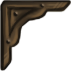
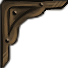
anim

Changed region(s): [[0.0, 0.0, 1.0, 1.0], [0.0882, 0.0588, 0.5294, 0.2941], [0.2059, 0.2941, 0.2353, 0.3235]]

diff --git a/app/css/all.css b/app/css/all.css
@@ -72,7 +72,7 @@ textarea { overflow: auto; resize: vertical; }
 
 fieldset { min-width: 0; padding: 0; margin: 0; border: 0; }
 
-:root { --border_img_h: url(../images/panel/h_border.png); --border_img_v: url(../images/panel/v_border.png); --size_border: 17px; --size_corner: 71px; --corner_img: url(../images/panel/corner.png); --width_decor:82px; --height_decor:43px; }
+:root { --border_img_h: url(../images/panel/h_border.png); --border_img_v: url(../images/panel/v_border.png); --size_border: 17px; --size_corner: 68px; --corner_img: url(../images/panel/corner.png); --width_decor:82px; --height_decor:43px; --animation_static: all 0.15s ease; --animation_hovered:all 0.3s ease; --unit:2; }
 
 body { font-family: "Vollkorn", sans-serif; font: 16px/1.5; line-height: 1.5; background: #180f0a; color: #b8afaa; }
 
@@ -106,19 +106,23 @@ body { font-family: "Vollkorn", sans-serif; font: 16px/1.5; line-height: 1.5; ba
 
 .panel_content { -webkit-box-flex: 1; -ms-flex: 1 1 auto; flex: 1 1 auto; overflow: auto; height: 100%; background: rgba(0, 128, 0, 0.2); }
 
-.circle { --height:111px; --width:110px; --width_circle:calc(var(--width) / 2); --height_circle:calc(var(--height) / 2); display: inline-block; width: var(--width_circle); height: var(--height_circle); background: url(../images/circles/circle.png) no-repeat 0 0; -webkit-background-size: cover; background-size: cover; position: relative; }
+.circle { --size:110px; --width_circle:calc(var(--size) / 2); --height_circle:calc(var(--size) / 2); display: inline-block; width: var(--width_circle); height: var(--height_circle); background: url(../images/circles/circle.png) no-repeat 0 0; -webkit-background-size: cover; background-size: cover; position: relative; }
 
 .circle img { position: absolute; top: 50%; left: 50%; -webkit-transform: translate(-50%, -50%); -ms-transform: translate(-50%, -50%); transform: translate(-50%, -50%); max-width: 80%; max-height: 80%; }
 
-.circle.md { --width_circle:calc(var(--width) / 2* 0.75); --height_circle:calc(var(--height) / 2 * 0.75); }
+.circle.md { --width_circle:calc(var(--size) / 2* 0.75); --height_circle:calc(var(--size) / 2 * 0.75); }
 
-.circle.sm { --width_circle:calc(var(--width) / 2* 0.5); --height_circle:calc(var(--height) / 2 * 0.5); }
+.circle.sm { --width_circle:calc(var(--size) / 2* 0.5); --height_circle:calc(var(--size) / 2 * 0.5); }
 
-a.circle { -webkit-transition: all 0.15s ease; -o-transition: all 0.15s ease; transition: all 0.15s ease; }
+.circle.emblem { background: none; padding: 1px; }
 
-a.circle:hover { -webkit-transition: all 0.3s ease; -o-transition: all 0.3s ease; transition: all 0.3s ease; -webkit-filter: saturate(2); filter: saturate(2); }
+.circle.emblem img { position: static; -webkit-transform: none; -ms-transform: none; transform: none; max-width: none; max-height: none; display: block; height: auto; max-width: 100%; -webkit-border-radius: 50%; border-radius: 50%; }
 
-.rectangle { --size_corner_local:calc(var(--size_corner) / 2.7); position: relative; width: 67px; height: 95px; }
+.circle.emblem:after { content: ""; width: 100%; height: 100%; position: absolute; top: 0; left: 0; background: url(../images/circles/circle_empty_shadow.png) no-repeat 0 0; -webkit-background-size: cover; background-size: cover; }
+
+.circle.emblem.no_shadow:after { background: url(../images/circles/circle_empty.png) no-repeat 0 0; -webkit-background-size: cover; background-size: cover; }
+
+.rectangle { --size_corner_local:calc(var(--size_corner) / 2.7); position: relative; width: 67px; height: 95px; display: block; }
 
 .rectangle .rectangle_mask { width: 100%; height: 100%; position: relative; }
 
@@ -131,10 +135,6 @@ a.circle:hover { -webkit-transition: all 0.3s ease; -o-transition: all 0.3s ease
 .rectangle:after { left: auto; top: auto; bottom: -2px; right: -1px; -webkit-transform: scale(-1, -1); -ms-transform: scale(-1, -1); transform: scale(-1, -1); }
 
 .rectangle img { z-index: 3; position: absolute; top: 50%; left: 50%; -webkit-transform: translate(-50%, -50%); -ms-transform: translate(-50%, -50%); transform: translate(-50%, -50%); max-width: 100%; max-height: 100%; }
-
-a.rectangle img { -webkit-transition: all 0.15s ease; -o-transition: all 0.15s ease; transition: all 0.15s ease; }
-
-a.rectangle:hover img { -webkit-transition: all 0.3s ease; -o-transition: all 0.3s ease; transition: all 0.3s ease; -webkit-filter: saturate(2); filter: saturate(2); }
 
 .justify-content-center { -webkit-box-pack: center; -ms-flex-pack: center; justify-content: center; }
 
@@ -156,12 +156,24 @@ a.rectangle:hover img { -webkit-transition: all 0.3s ease; -o-transition: all 0.
 
 .row { display: -webkit-box; display: -ms-flexbox; display: flex; -ms-flex-wrap: wrap; flex-wrap: wrap; margin-left: -15px; margin-right: -15px; }
 
+.btn { -webkit-transition: var(--animation_static); -o-transition: var(--animation_static); transition: var(--animation_static); }
+
+.btn:hover { -webkit-transition: var(--animation_hovered); -o-transition: var(--animation_hovered); transition: var(--animation_hovered); -webkit-filter: saturate(var(--unit)); filter: saturate(var(--unit)); }
+
+a.rectangle img { -webkit-transition: var(--animation_static); -o-transition: var(--animation_static); transition: var(--animation_static); }
+
+a.rectangle:hover img { -webkit-transition: var(--animation_hovered); -o-transition: var(--animation_hovered); transition: var(--animation_hovered); -webkit-filter: saturate(var(--unit)); filter: saturate(var(--unit)); }
+
+a.circle { -webkit-transition: var(--animation_static); -o-transition: var(--animation_static); transition: var(--animation_static); }
+
+a.circle:hover { -webkit-transition: var(--animation_hovered); -o-transition: var(--animation_hovered); transition: var(--animation_hovered); -webkit-filter: saturate(var(--unit)); filter: saturate(var(--unit)); }
+
 /* vollkorn-regular - latin_cyrillic */
 @font-face { font-family: 'Vollkorn'; src: url("../fonts/vollkorn-v17-latin_cyrillic-regular.eot"); /* IE9 Compat Modes */ src: local(""), url("../fonts/vollkorn-v17-latin_cyrillic-regular.eot?#iefix") format("embedded-opentype"), url("../fonts/vollkorn-v17-latin_cyrillic-regular.woff2") format("woff2"), url("../fonts/vollkorn-v17-latin_cyrillic-regular.woff") format("woff"), url("../fonts/vollkorn-v17-latin_cyrillic-regular.ttf") format("truetype"), url("../fonts/vollkorn-v17-latin_cyrillic-regular.svg#Vollkorn") format("svg"); /* Legacy iOS */ font-style: normal; font-weight: 400; font-display: swap; }
 
 .btn:not(:disabled):not(.disabled) { cursor: pointer; }
 
-.btn { --px:20px; --py:17px; --size_corner_local:calc(var(--size_corner) / 2.7); --paddings_local:var(--py)  var(--px); --font_size_local:16px; text-align: center; vertical-align: middle; -webkit-user-select: none; -moz-user-select: none; -ms-user-select: none; user-select: none; -webkit-transition: all 0.15s ease; -o-transition: all 0.15s ease; transition: all 0.15s ease; display: inline-block; background: #180f0a; -webkit-border-radius: 6px; border-radius: 6px; overflow: hidden; border: 0; color: #b8afaa; position: relative; font-size: var(--font_size_local); }
+.btn { --px:20px; --py:17px; --size_corner_local:calc(var(--size_corner) / 2.7); --paddings_local:var(--py)  var(--px); --font_size_local:16px; text-align: center; vertical-align: middle; -webkit-user-select: none; -moz-user-select: none; -ms-user-select: none; user-select: none; display: inline-block; background: #180f0a; -webkit-border-radius: 6px; border-radius: 6px; overflow: hidden; border: 0; color: #b8afaa; position: relative; font-size: var(--font_size_local); }
 
 .btn.md { --size_corner_local:calc(var(--size_corner) / 2.7 * 0.75); --font_size_local:calc(16px * 0.75); --paddings_local: calc(var(--py) * 0.75) calc(var(--px) * 0.75); }
 
@@ -179,6 +191,6 @@ a.rectangle:hover img { -webkit-transition: all 0.3s ease; -o-transition: all 0.
 
 .btn:after { left: auto; right: 0; -webkit-transform: scale(-1, 1); -ms-transform: scale(-1, 1); transform: scale(-1, 1); }
 
-.btn:hover { color: #b8afaa; color: #fff; text-decoration: none; -webkit-transition: all 0.3s ease; -o-transition: all 0.3s ease; transition: all 0.3s ease; -webkit-filter: saturate(2); filter: saturate(2); }
+.btn:hover { color: #b8afaa; color: #fff; text-decoration: none; }
 
 /*# sourceMappingURL=all.css.map */

diff --git a/app/ui.html b/app/ui.html
@@ -5,6 +5,9 @@
 		<meta name="viewport" content="width=device-width, initial-scale=1, shrink-to-fit=no">
 		<link rel="stylesheet" href="css/all.css">
 		<title>UI</title>
+		<style>
+			p{color: #fff;}
+		</style>
 	</head>
 	<body style="background: #858a4d;">
 		<div class="wrapper">
@@ -39,32 +42,48 @@
 				<a href="#" class="circle"><img src="images/circles/example.png" alt=""></a>
 				<a href="#" class="circle md"><img src="images/circles/example.png" alt=""></a>
 				<a href="#" class="circle sm"><img src="images/circles/example.png" alt=""></a>
+				<p>флаги, добавить класс .emblem</p>
+				<div class="circle emblem"><img src="images/circles/emblem.png" alt=""></div>
+				<div class="circle emblem md"><img src="images/circles/emblem.png" alt=""></div>
+				<div class="circle emblem sm"><img src="images/circles/emblem.png" alt=""></div>
+				<p> кликабельные (первый элемент без тени .no_shadow)</p>
+				<a href="#" class="circle emblem no_shadow"><img src="images/circles/emblem.png" alt=""></a>
+				<a href="#" class="circle emblem md"><img src="images/circles/emblem.png" alt=""></a>
+				<a href="#" class="circle emblem sm "><img src="images/circles/emblem.png" alt=""></a>
 			</div>
 			<div style="margin: 50px;" class="d-flex">
-				<div class="rectangle" style="margin-right: 18px;">
-					<div class="rectangle_mask">
-						<img src="images/circles/example.png" alt="">
+				<div  style="margin-right: 18px;">
+					<div class="rectangle">
+						<div class="rectangle_mask">
+							<img src="images/circles/example.png" alt="">
+						</div>
 					</div>
+				</div>	
+				<div style="margin-right: 18px;">
+					<a href="#" class="rectangle">
+						<div class="rectangle_mask">
+							<img src="images/circles/example.png" alt="">
+						</div>
+					</a>
 				</div>
-				<a href="#" class="rectangle" style="margin-right: 18px;">
-					<div class="rectangle_mask">
-						<img src="images/circles/example.png" alt="">
-					</div>
-				</a>
 			</div>
 			<div class="panel" style=" margin: 100px;">
 				<div class="panel_holder">
 					<div class="d-flex">
-						<div class="rectangle" style="margin-right: 18px;">
-							<div class="rectangle_mask">
-								<img src="images/circles/example.png" alt="">
+						<div  style="margin-right: 18px;">
+							<div class="rectangle">
+								<div class="rectangle_mask">
+									<img src="images/circles/example.png" alt="">
+								</div>
 							</div>
+						</div>	
+						<div style="margin-right: 18px;">
+							<a href="#" class="rectangle" >
+								<div class="rectangle_mask">
+									<img src="images/circles/example.png" alt="">
+								</div>
+							</a>
 						</div>
-						<a href="#" class="rectangle" style="margin-right: 18px;">
-							<div class="rectangle_mask">
-								<img src="images/circles/example.png" alt="">
-							</div>
-						</a>
 					</div>
 				</div>
 				<div class="decor">

diff --git a/app/sass/partials/_circles.scss b/app/sass/partials/_circles.scss
@@ -1,8 +1,7 @@
 .circle{
-	--height:111px;
-	--width:110px;
-	--width_circle:calc(var(--width) / 2);
-	--height_circle:calc(var(--height) / 2);
+	--size:110px;
+	--width_circle:calc(var(--size) / 2);
+	--height_circle:calc(var(--size) / 2);
 	display: inline-block;
 	width: var(--width_circle);
 	height: var(--height_circle);
@@ -11,22 +10,45 @@
 	position: relative;
 	img{
 		@include centered_img(80,80);
-		// width: 80%;
-		// height:80%;
 	}
 	&.md{
-		--width_circle:calc(var(--width) / 2* 0.75);
-		--height_circle:calc(var(--height) / 2 * 0.75);
+		--width_circle:calc(var(--size) / 2* 0.75);
+		--height_circle:calc(var(--size) / 2 * 0.75);
 	}
 	&.sm{
-		--width_circle:calc(var(--width) / 2* 0.5);
-		--height_circle:calc(var(--height) / 2 * 0.5);
+		--width_circle:calc(var(--size) / 2* 0.5);
+		--height_circle:calc(var(--size) / 2 * 0.5);
 	}
-}
-a.circle{
-	transition: all 0.15s ease;
-	&:hover{
-		transition: all 0.3s ease;
-		filter: saturate(2);
+	&.emblem{
+		background: none;
+		padding: 1px;
+		img{
+			position: static;
+			transform:none;
+			max-width: none;
+			max-height: none;
+			display: block;
+			height: auto;
+			max-width: 100%;
+			border-radius: 50%;
+			// filter: drop-shadow(0 0 3px red);
+			// box-shadow: inset 0 0 10px red;
+		}
+		&:after{
+			content: "";
+			width: 100%;
+			height: 100%;
+			position: absolute;
+			top: 0;
+			left: 0;
+			background: url(../images/circles/circle_empty_shadow.png) no-repeat 0 0;
+			background-size: cover;
+		}
+		&.no_shadow{
+			&:after{
+				background: url(../images/circles/circle_empty.png) no-repeat 0 0;
+				background-size: cover;
+			}
+		}
 	}
 }

diff --git a/app/sass/_variables.scss b/app/sass/_variables.scss
@@ -1,14 +1,19 @@
 :root{
-	// --size_border:17px;
+	// border-bg of panel
 	--border_img_h: url(../images/panel/h_border.png);
 	--border_img_v: url(../images/panel/v_border.png);
 	--size_border: 17px;
-
-	--size_corner: 71px;
+	// corners
+	--size_corner: 68px;
 	--corner_img: url(../images/panel/corner.png);
-	
+	// centered corners
 	--width_decor:82px;
 	--height_decor:43px;
+
+	// animation
+	--animation_static: all 0.15s ease;
+	--animation_hovered:all 0.3s ease;
+	--unit:2;
 }
 $primary :#180f0a;
 $light :#b8afaa;

diff --git a/app/sass/partials/ui/_animation.scss b/app/sass/partials/ui/_animation.scss
@@ -1,0 +1,25 @@
+.btn{
+	transition: var(--animation_static);
+	&:hover{
+		transition: var(--animation_hovered);
+		filter:saturate(var(--unit));
+	}
+}
+a.rectangle{
+	img{
+		transition: var(--animation_static);
+	}
+	&:hover{
+		img{
+			transition: var(--animation_hovered);
+			filter:saturate(var(--unit));
+		}
+	}
+}
+a.circle{
+	transition: var(--animation_static);
+	&:hover{
+		transition: var(--animation_hovered);
+		filter:saturate(var(--unit));
+	}
+}

diff --git a/app/sass/partials/_items.scss b/app/sass/partials/_items.scss
@@ -3,6 +3,7 @@
 	position: relative;
 	width: 67px;
 	height: 95px;
+	display: block;
 	.rectangle_mask{
 		width: 100%;
 		height: 100%;
@@ -46,16 +47,5 @@
 	img{
 		z-index: 3;
 		@include centered_img(100,100);
-	}
-}
-a.rectangle{
-	img{
-		transition: all 0.15s ease;
-	}
-	&:hover{
-		img{
-			transition: all 0.3s ease;
-			filter: saturate(2);
-		}
 	}
 }

diff --git a/app/sass/partials/ui/_btn.scss b/app/sass/partials/ui/_btn.scss
@@ -10,7 +10,7 @@
 	text-align:center;
 	vertical-align:middle;
 	user-select:none;
-	transition: all 0.15s ease;
+	
 	display: inline-block;
 	background: $primary;
 	border-radius: 6px;
@@ -80,7 +80,6 @@
 		color: $light;
 		color: #fff;
 		text-decoration: none;
-		transition: all 0.3s ease;
-		filter: saturate(2);
+		
 	}
 }

diff --git a/app/sass/all.scss b/app/sass/all.scss
@@ -9,6 +9,7 @@
 'partials/_items',
 
 'partials/ui/_grid',
+'partials/ui/_animation',
 'partials/ui/_webfont',
 'partials/ui/_btn',
 'partials/ui/_typography';
